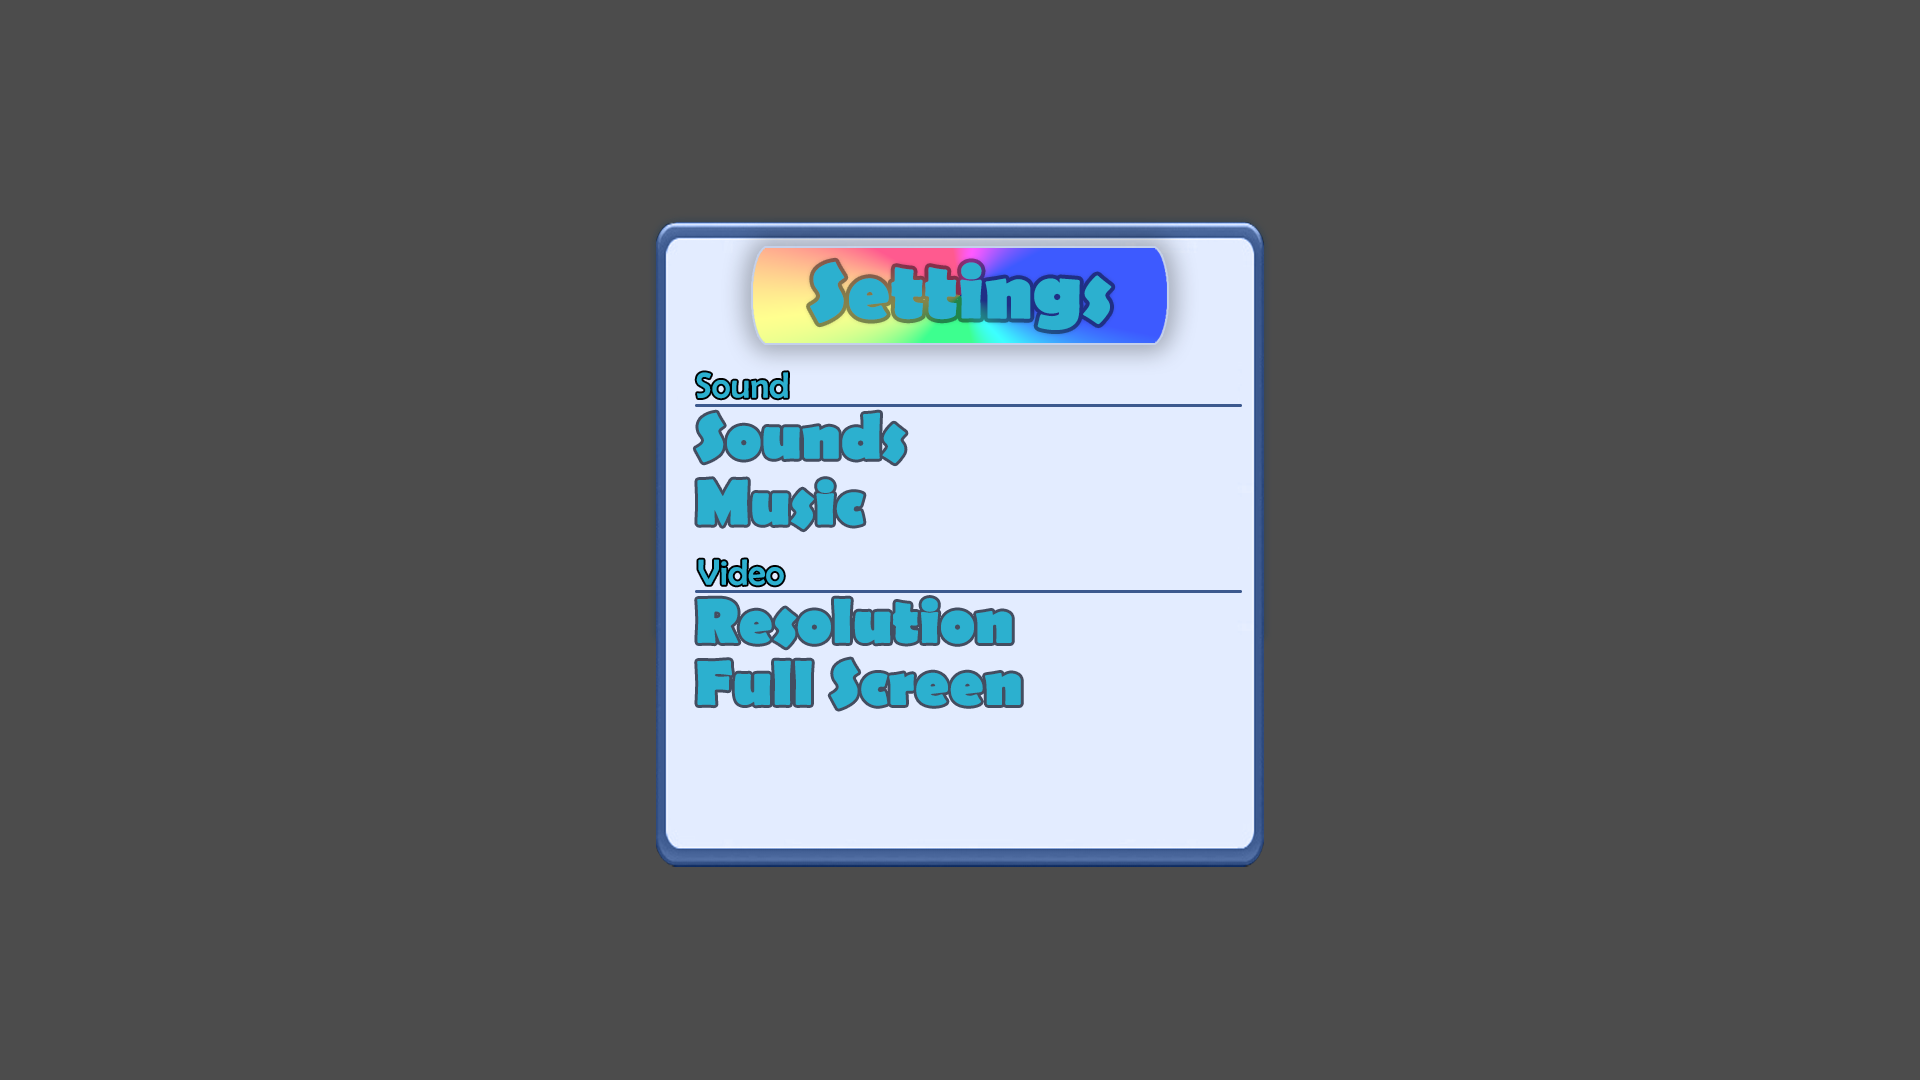
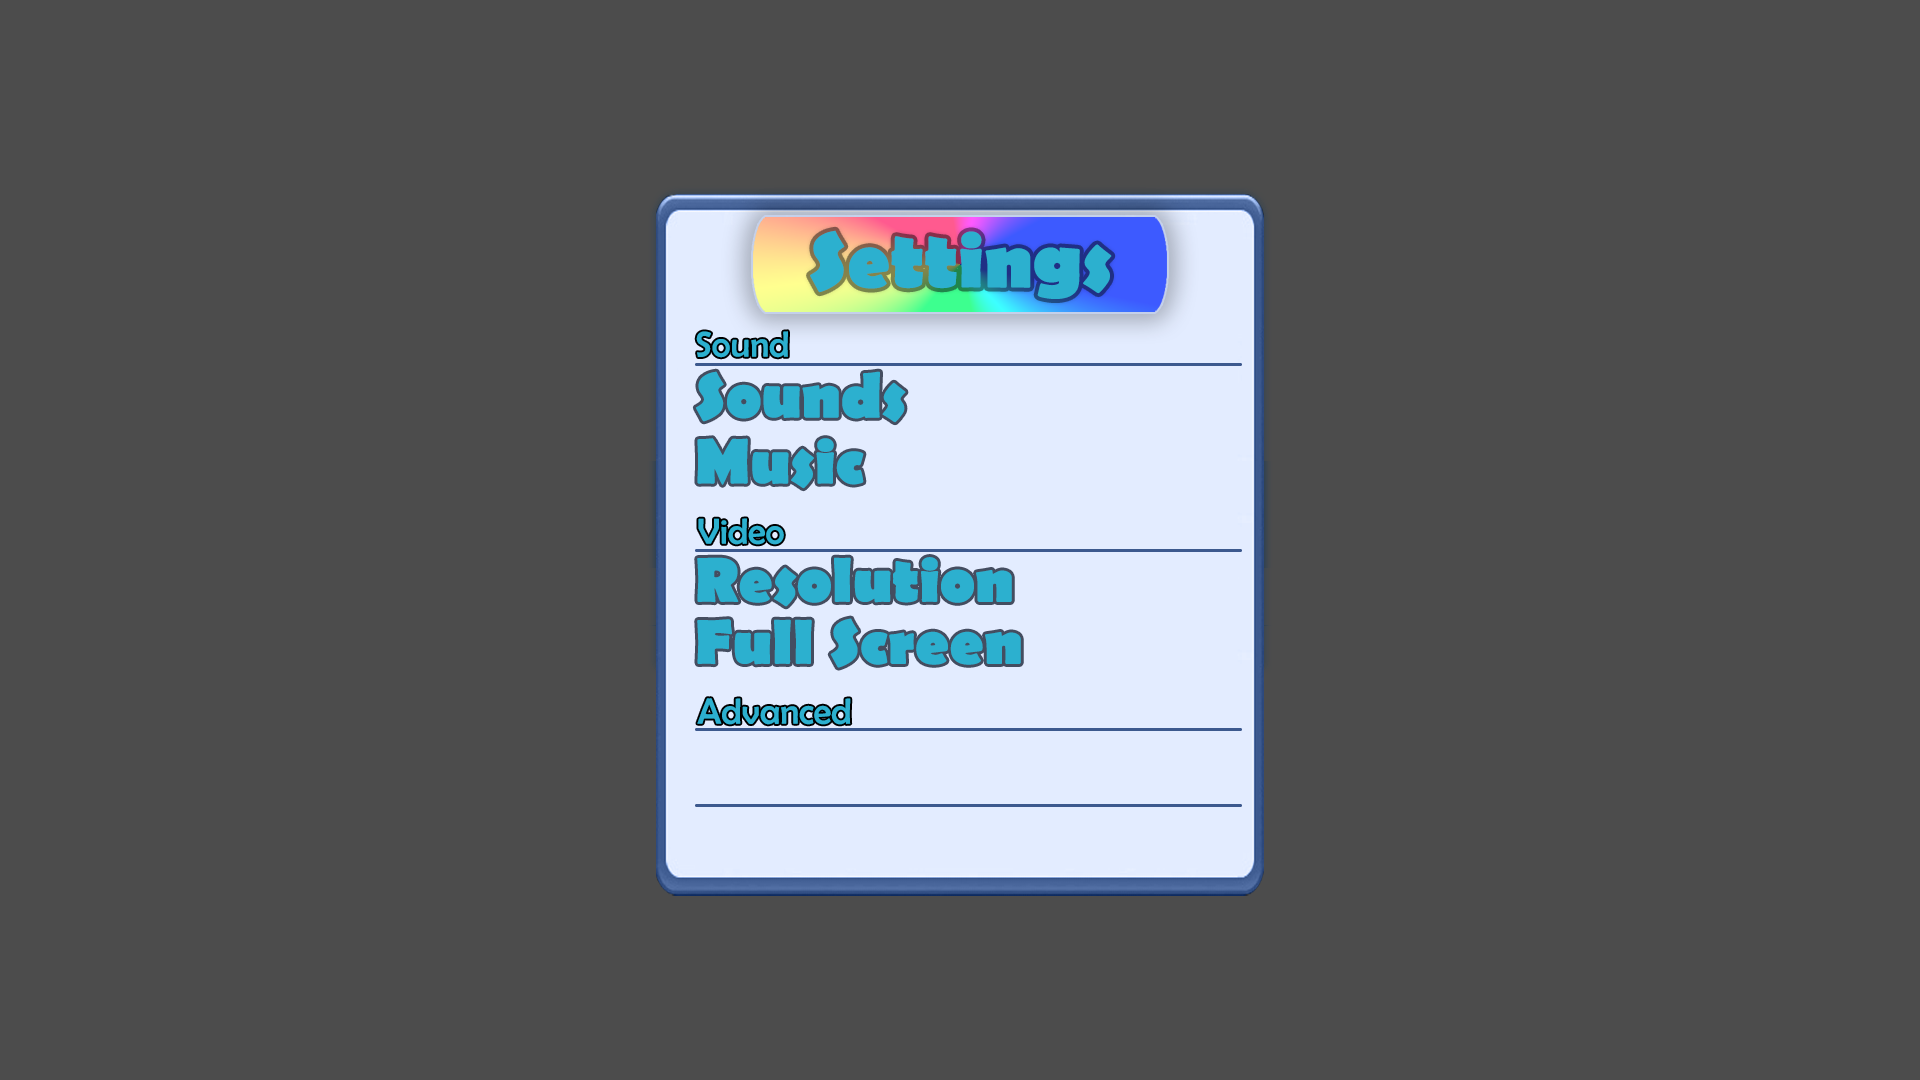
new screen to add new questions

Changed region(s): [[0.3438, 0.1528, 0.6562, 0.6722], [0.3438, 0.7639, 0.6562, 0.8556]]

diff --git a/Final/main.py b/Final/main.py
@@ -29,7 +29,7 @@ class Game:
         self.help_pagenr = 0
         self.play_pages = 4
         self.play_pagenr = 0
-        self.settings_pages = 1
+        self.settings_pages = 2
         self.settings_pagenr = 0
         self.players = 0
         self.turn = 0
@@ -88,10 +88,11 @@ class Game:
         self.P2CA = PCat(self.width * 0.67, self.height * 0.245, self.width * 0.18, self.height * 0.05)
         self.P3CA = PCat(self.width * 0.67, self.height * 0.345, self.width * 0.18, self.height * 0.05)
         self.P4CA = PCat(self.width * 0.67, self.height * 0.445, self.width * 0.18, self.height * 0.05)
-        self.TO1 = Toggle1(self.width * 0.572, self.height * 0.381, self.width * 0.068, self.height * 0.05)
-        self.TO2 = Toggle1(self.width * 0.572, self.height * 0.442, self.width * 0.068, self.height * 0.05)
-        self.TO3 = Toggle2(self.width * 0.572, self.height * 0.61, self.width * 0.068, self.height * 0.05)
-        self.RES = Resolution(self.width * 0.54, self.height * 0.553, self.width * 0.1, self.height * 0.05)
+        self.Addqc = PCat(self.width * 0.232, self.height * 0.318, self.width * 0.18, self.height * 0.044)
+        self.TO1 = Toggle1(self.width * 0.572, self.height * 0.343, self.width * 0.068, self.height * 0.05)
+        self.TO2 = Toggle1(self.width * 0.572, self.height * 0.403, self.width * 0.068, self.height * 0.05)
+        self.TO3 = Toggle2(self.width * 0.572, self.height * 0.57, self.width * 0.068, self.height * 0.05)
+        self.RES = Resolution(self.width * 0.54, self.height * 0.513, self.width * 0.1, self.height * 0.05)
         self.Ques= Questions(self.width * 0.307, self.height * 0.295, int(self.width * 0.023))
 
     def draw(self):
@@ -372,18 +373,26 @@ class Game:
                 self.Sbg.draw(self.screen)
                 self.Cross1.draw(self.screen)
                 self.Credits.draw(self.screen)
-                self.TO1.update(self.width * 0.572, self.height * 0.381, self.width * 0.068, self.height * 0.05)
+                self.TO1.update(self.width * 0.572, self.height * 0.343, self.width * 0.068, self.height * 0.05)
                 self.TO1.draw(self.screen)
-                self.TO2.update(self.width * 0.572, self.height * 0.442, self.width * 0.068, self.height * 0.05)
+                self.TO2.update(self.width * 0.572, self.height * 0.403, self.width * 0.068, self.height * 0.05)
                 self.TO2.draw(self.screen)
-                self.TO3.update(self.width * 0.572, self.height * 0.61, self.width * 0.068, self.height * 0.05)
+                self.TO3.update(self.width * 0.572, self.height * 0.57, self.width * 0.068, self.height * 0.05)
                 self.TO3.draw(self.screen)
-                self.RES.update(self.width * 0.54, self.height * 0.553, self.width * 0.1, self.height * 0.05)
+                self.RES.update(self.width * 0.54, self.height * 0.513, self.width * 0.1, self.height * 0.05)
                 self.RES.draw(self.screen)
+                self.Addq.draw(self.screen)
             elif self.settings_pagenr == 1:
                 self.M1.draw(self.screen)
                 self.Cbg.draw(self.screen)
                 self.Cross2.draw(self.screen)
+            elif self.settings_pagenr == 2:
+                self.M1.draw(self.screen)
+                self.Addq_bg.draw(self.screen)
+                self.Cross4.draw(self.screen)
+                self.Add.draw(self.screen)
+                self.Addqc.update(self.width * 0.232, self.height * 0.318, self.width * 0.18, self.height * 0.044)
+                self.Addqc.draw(self.screen)
         pygame.display.update()
 
     def process_events(self):
@@ -399,6 +408,7 @@ class Game:
         self.Sbg = Backg(self.width, self.height, BG5)
         self.Cbg = Backg(self.width, self.height, BG6)
         self.Wonbg = Backg(self.width, self.height, BG7)
+        self.Addq_bg = Backg(self.width, self.height, BG8)
         self.B1 = Button(self.width * 0.88, self.height * 0.04, self.width * 0.1, self.height * 0.07, I5)
         self.B2 = Button(self.width * 0.88, self.height * 0.04, self.width * 0.1, self.height * 0.07, I5)
         self.B3 = Button(self.width * 0.88, self.height * 0.04, self.width * 0.1, self.height * 0.07, I5)
@@ -427,11 +437,13 @@ class Game:
         self.CA3_R = Textbg(self.width * 0.58, self.height * 0.347, self.width * 0.028, self.height * 0.051, I21)
         self.CA4_L = Textbg(self.width * 0.46, self.height * 0.447, self.width * 0.028, self.height * 0.051, I20)
         self.CA4_R = Textbg(self.width * 0.58, self.height * 0.447, self.width * 0.028, self.height * 0.051, I21)
-        self.Cross1 = Button2(self.width * 0.63, self.height * 0.185, self.width * 0.044, self.height * 0.075, S1)
+        self.Cross1 = Button2(self.width * 0.63, self.height * 0.161, self.width * 0.044, self.height * 0.075, S1)
         self.Cross2 = Button2(self.width * 0.63, self.height * 0.0745, self.width * 0.044, self.height * 0.075, S1)
         self.Cross3 = Button2(self.width * 0.681, self.height * 0.396, self.width * 0.044, self.height * 0.075, S1)
-        self.Credits = Button2(self.width * 0.36, self.height * 0.7, self.width * 0.13, self.height * 0.07, S2)
-
+        self.Cross4 = Button2(self.width * 0.763, self.height * 0.168, self.width * 0.044, self.height * 0.075, S1)
+        self.Credits = Button2(self.width * 0.36, self.height * 0.747, self.width * 0.13, self.height * 0.065, S2)
+        self.Addq = Button2(self.width * 0.36, self.height * 0.679, self.width * 0.24, self.height * 0.065, S8)
+        self.Add = Button2(self.width * 0.653, self.height * 0.726, self.width * 0.122, self.height * 0.071, S9)
 
         self.screen_rect = self.screen.get_rect()
         self.T1_1.update(events, self.width * 0.031, self.height * 0.145, int(self.width * 0.03), 0)
@@ -600,6 +612,7 @@ class Game:
                     if self.P4CA.cc < 3:
                         self.P4CA.cc += 1
 
+
                 # SETTINGS toggles for setting options
                 if self.TO1.rect2.collidepoint(pygame.mouse.get_pos()) and self.S0[3] == 1:
                     if self.TO1.cc > 0:
@@ -641,12 +654,22 @@ class Game:
                         self.TO3.cc = 1
                 if self.Credits.rect.collidepoint(pygame.mouse.get_pos()) and self.S0[3] == 1:
                     if self.settings_pagenr < self.settings_pages:
-                        self.settings_pagenr += 1
-                elif self.Cross2.rect.collidepoint(pygame.mouse.get_pos()) and self.settings_pagenr == 1:
+                        self.settings_pagenr = 1
+                elif self.Addq.rect.collidepoint(pygame.mouse.get_pos()) and self.S0[3] == 1:
+                    self.settings_pagenr = 2
+                if self.Cross2.rect.collidepoint(pygame.mouse.get_pos()) and self.settings_pagenr == 1:
                     self.settings_pagenr = 0
-                if self.Cross3.rect.collidepoint(pygame.mouse.get_pos()) and self.play_pagenr == 4:
+                elif self.Cross3.rect.collidepoint(pygame.mouse.get_pos()) and self.play_pagenr == 4:
                     self.S0 = [1, 0, 0, 0]
                     self.play_pagenr = int(0)
+                elif self.Cross4.rect.collidepoint(pygame.mouse.get_pos()) and self.settings_pagenr == 2:
+                    self.settings_pagenr = 0
+                if self.Addqc.rect1.collidepoint(pygame.mouse.get_pos()) and self.settings_pagenr == 2:
+                    if self.Addqc.cc > 0:
+                        self.Addqc.cc -= 1
+                elif self.Addqc.rect2.collidepoint(pygame.mouse.get_pos()) and self.settings_pagenr == 2:
+                    if self.Addqc.cc < 3:
+                        self.Addqc.cc += 1
                     
                 # Player move with direction pad demo
                 elif self.AR_L.rect.collidepoint(pygame.mouse.get_pos()) and self.play_pagenr == 2 and self.action == 2:

diff --git a/Final/Image.py b/Final/Image.py
@@ -9,6 +9,7 @@ BG4 = pygame.image.load("Assets/Play/p3_bg.jpg")
 BG5 = pygame.image.load("Assets/Settings/settings_bg.png")
 BG6 = pygame.image.load("Assets/Settings/credits_bg.png")
 BG7 = pygame.image.load("Assets/Play/won_bg.png")
+BG8 = pygame.image.load("Assets/Settings/addq_bg.png")
 
 ###BUTTONS
 I1 = pygame.image.load("Assets/Play_Button.jpg")
@@ -58,3 +59,5 @@ S4 = pygame.image.load("Assets/Settings/toggle_off.png")
 S5 = pygame.image.load("Assets/Settings/res_800.png")
 S6 = pygame.image.load("Assets/Settings/res_1280.png")
 S7 = pygame.image.load("Assets/Settings/res_1366.png")
+S8 = pygame.image.load("Assets/Settings/addq.png")
+S9 = pygame.image.load("Assets/Settings/add.png")
